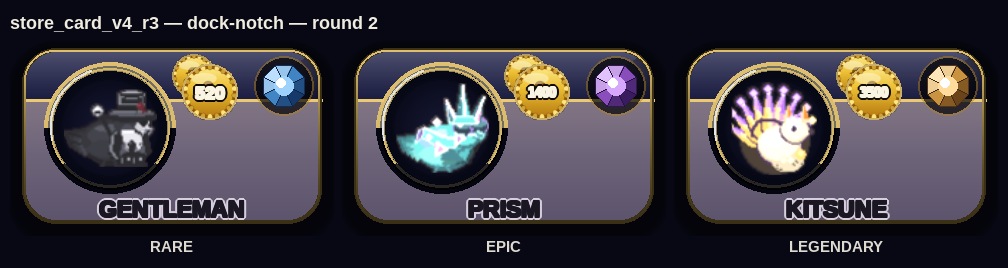
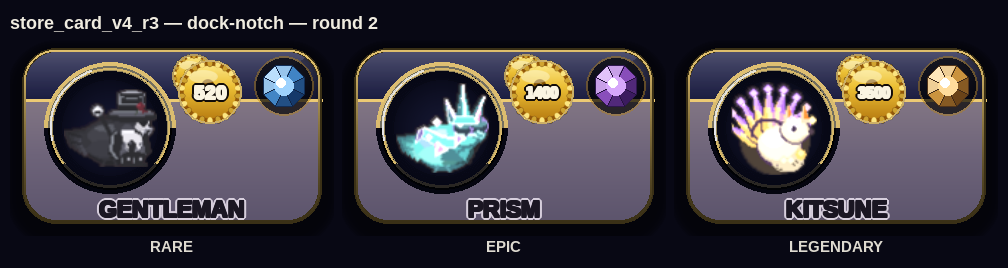
store_card_v4_r3 dock-notch round 2
Claude-Session: https://claude.ai/code/session_011726ot8uBSmurQVaEkGY6K

Changed region(s): [[0.4921, 0.209, 0.5843, 0.4776], [0.1538, 0.209, 0.246, 0.4776], [0.8304, 0.209, 0.9226, 0.4776]]

diff --git a/tools/_store_card_v4_r3_dock_notch_r2.py b/tools/_store_card_v4_r3_dock_notch_r2.py
@@ -4,9 +4,9 @@ Round 2 addresses the full art-director note set from round 1:
 
 1. Coin price: no thousands comma; numerals auto-sized to ≤65% of front-coin
    diameter so the gold face shows around the numeral.  Front coin enlarged
-   (r=14 logical) vs. back coin (r=11 logical) so the stamped face reads clearly.
+   (r=16 logical) vs. back coin (r=11 logical) so the stamped face reads clearly.
 2. Coin cluster moved left (rect.right − m(56)) to keep ≥6 logical-px clearance
-   from the gem badge seat; top-right corner is reserved for the gem.
+   from the gem face (≥10px) / seat (≥6px); top-right corner reserved for gem.
 3. Two-coin stack with a bold 8-logical-px per-axis offset so both disc rims
    read as distinct stamped coins rather than an ambiguous blob.
 4. Plinth raised (plinth_top = cy − m(14), was cy − m(8)) and gradient lower
@@ -72,7 +72,7 @@ def _coin_stack(big, cx, cy, price):
     rims read as distinct discs at 1x.  No thousands comma so shorter text fits
     more comfortably; numerals auto-sized to ≤65% of the front-coin diameter so
     the gold face is visible around them."""
-    front_r = m(14)     # enlarged stamped face — reads as the primary coin
+    front_r = m(16)     # enlarged stamped face — clearly larger than back coin
     back_r  = m(11)     # smaller back coin — depth cue, clearly behind
     off     = m(8)      # bold 8-logical-px per-axis offset (≈11 logical diagonal)
 
